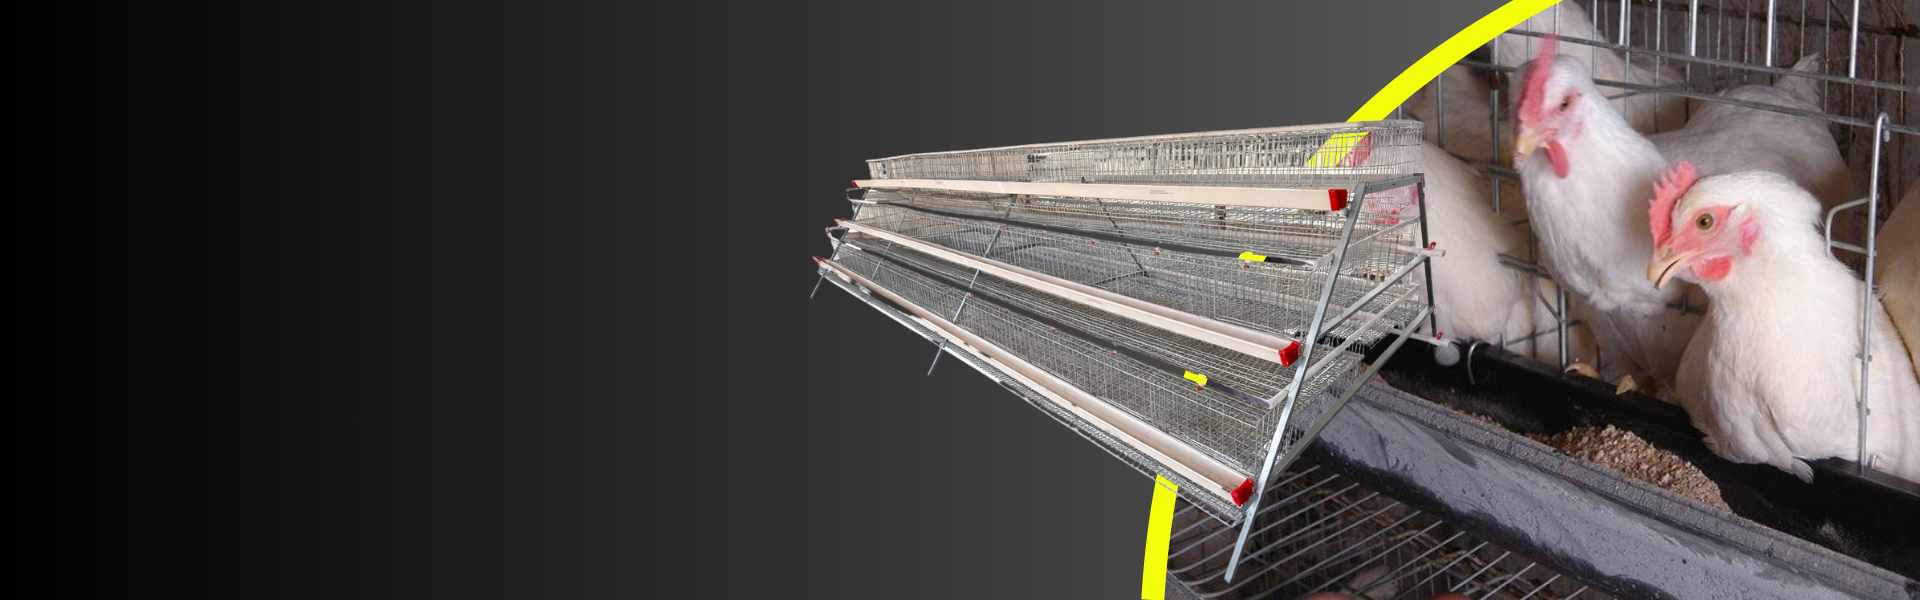
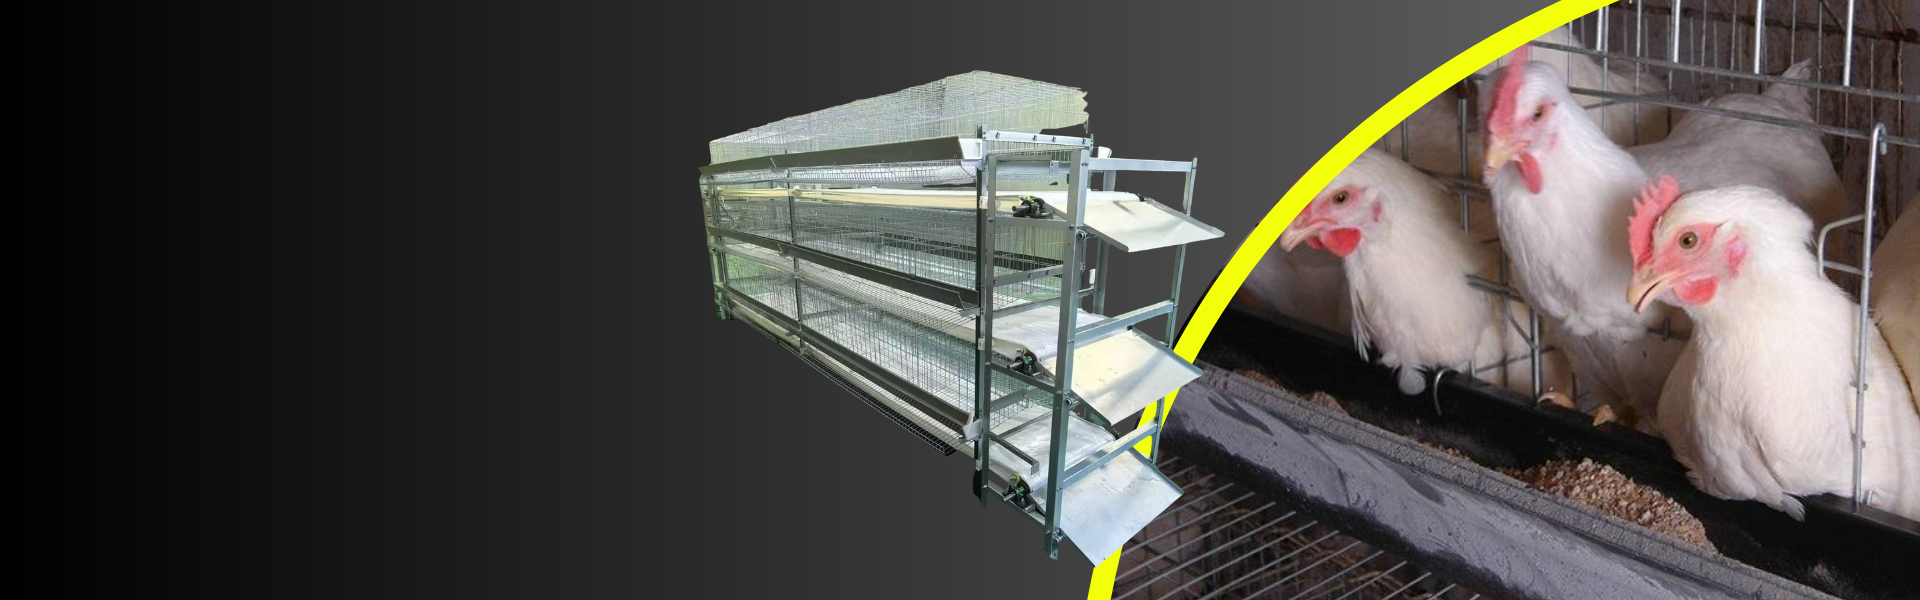
Actualizar cambios

diff --git a/public/index.html b/public/index.html
@@ -3,7 +3,7 @@
   <head>
     <meta charset="UTF-8" />
     <meta name="viewport" content="width=device-width, initial-scale=1" />
-    <title>DJN - Modelo Pro A 120</title>
+    <title>Sistema Avicola Integral DJN</title>
     <link rel="icon" href="assets/favicon.png" type="image/png" />
     <link rel="stylesheet" href="css/base.css" />
     <link rel="stylesheet" href="css/home.css" />
@@ -50,7 +50,7 @@
             </div>
             <a class="btn btn--dark btn--contacto" href="contacto/">Contacto</a>
           </div>
-        </div>
+        </div>  
       </div>
 
       <section class="slider slider--full" aria-label="Galeria de Modelo Pro 120">
@@ -68,7 +68,7 @@
           <div class="slider__overlay">
             <div class="container slider__cta-inner">
               <h2 class="slider__title">
-                Sistema Avicola Integral DJN<br />Modelo Pro A 120
+                Sistema Avicola Integral DJN<br />Modelo Pro A 120 y Modelo H 120
               </h2>
               <p class="slider__subtitle">
                 Produccion eficiente, higiene total y control continuo para tu granja.
